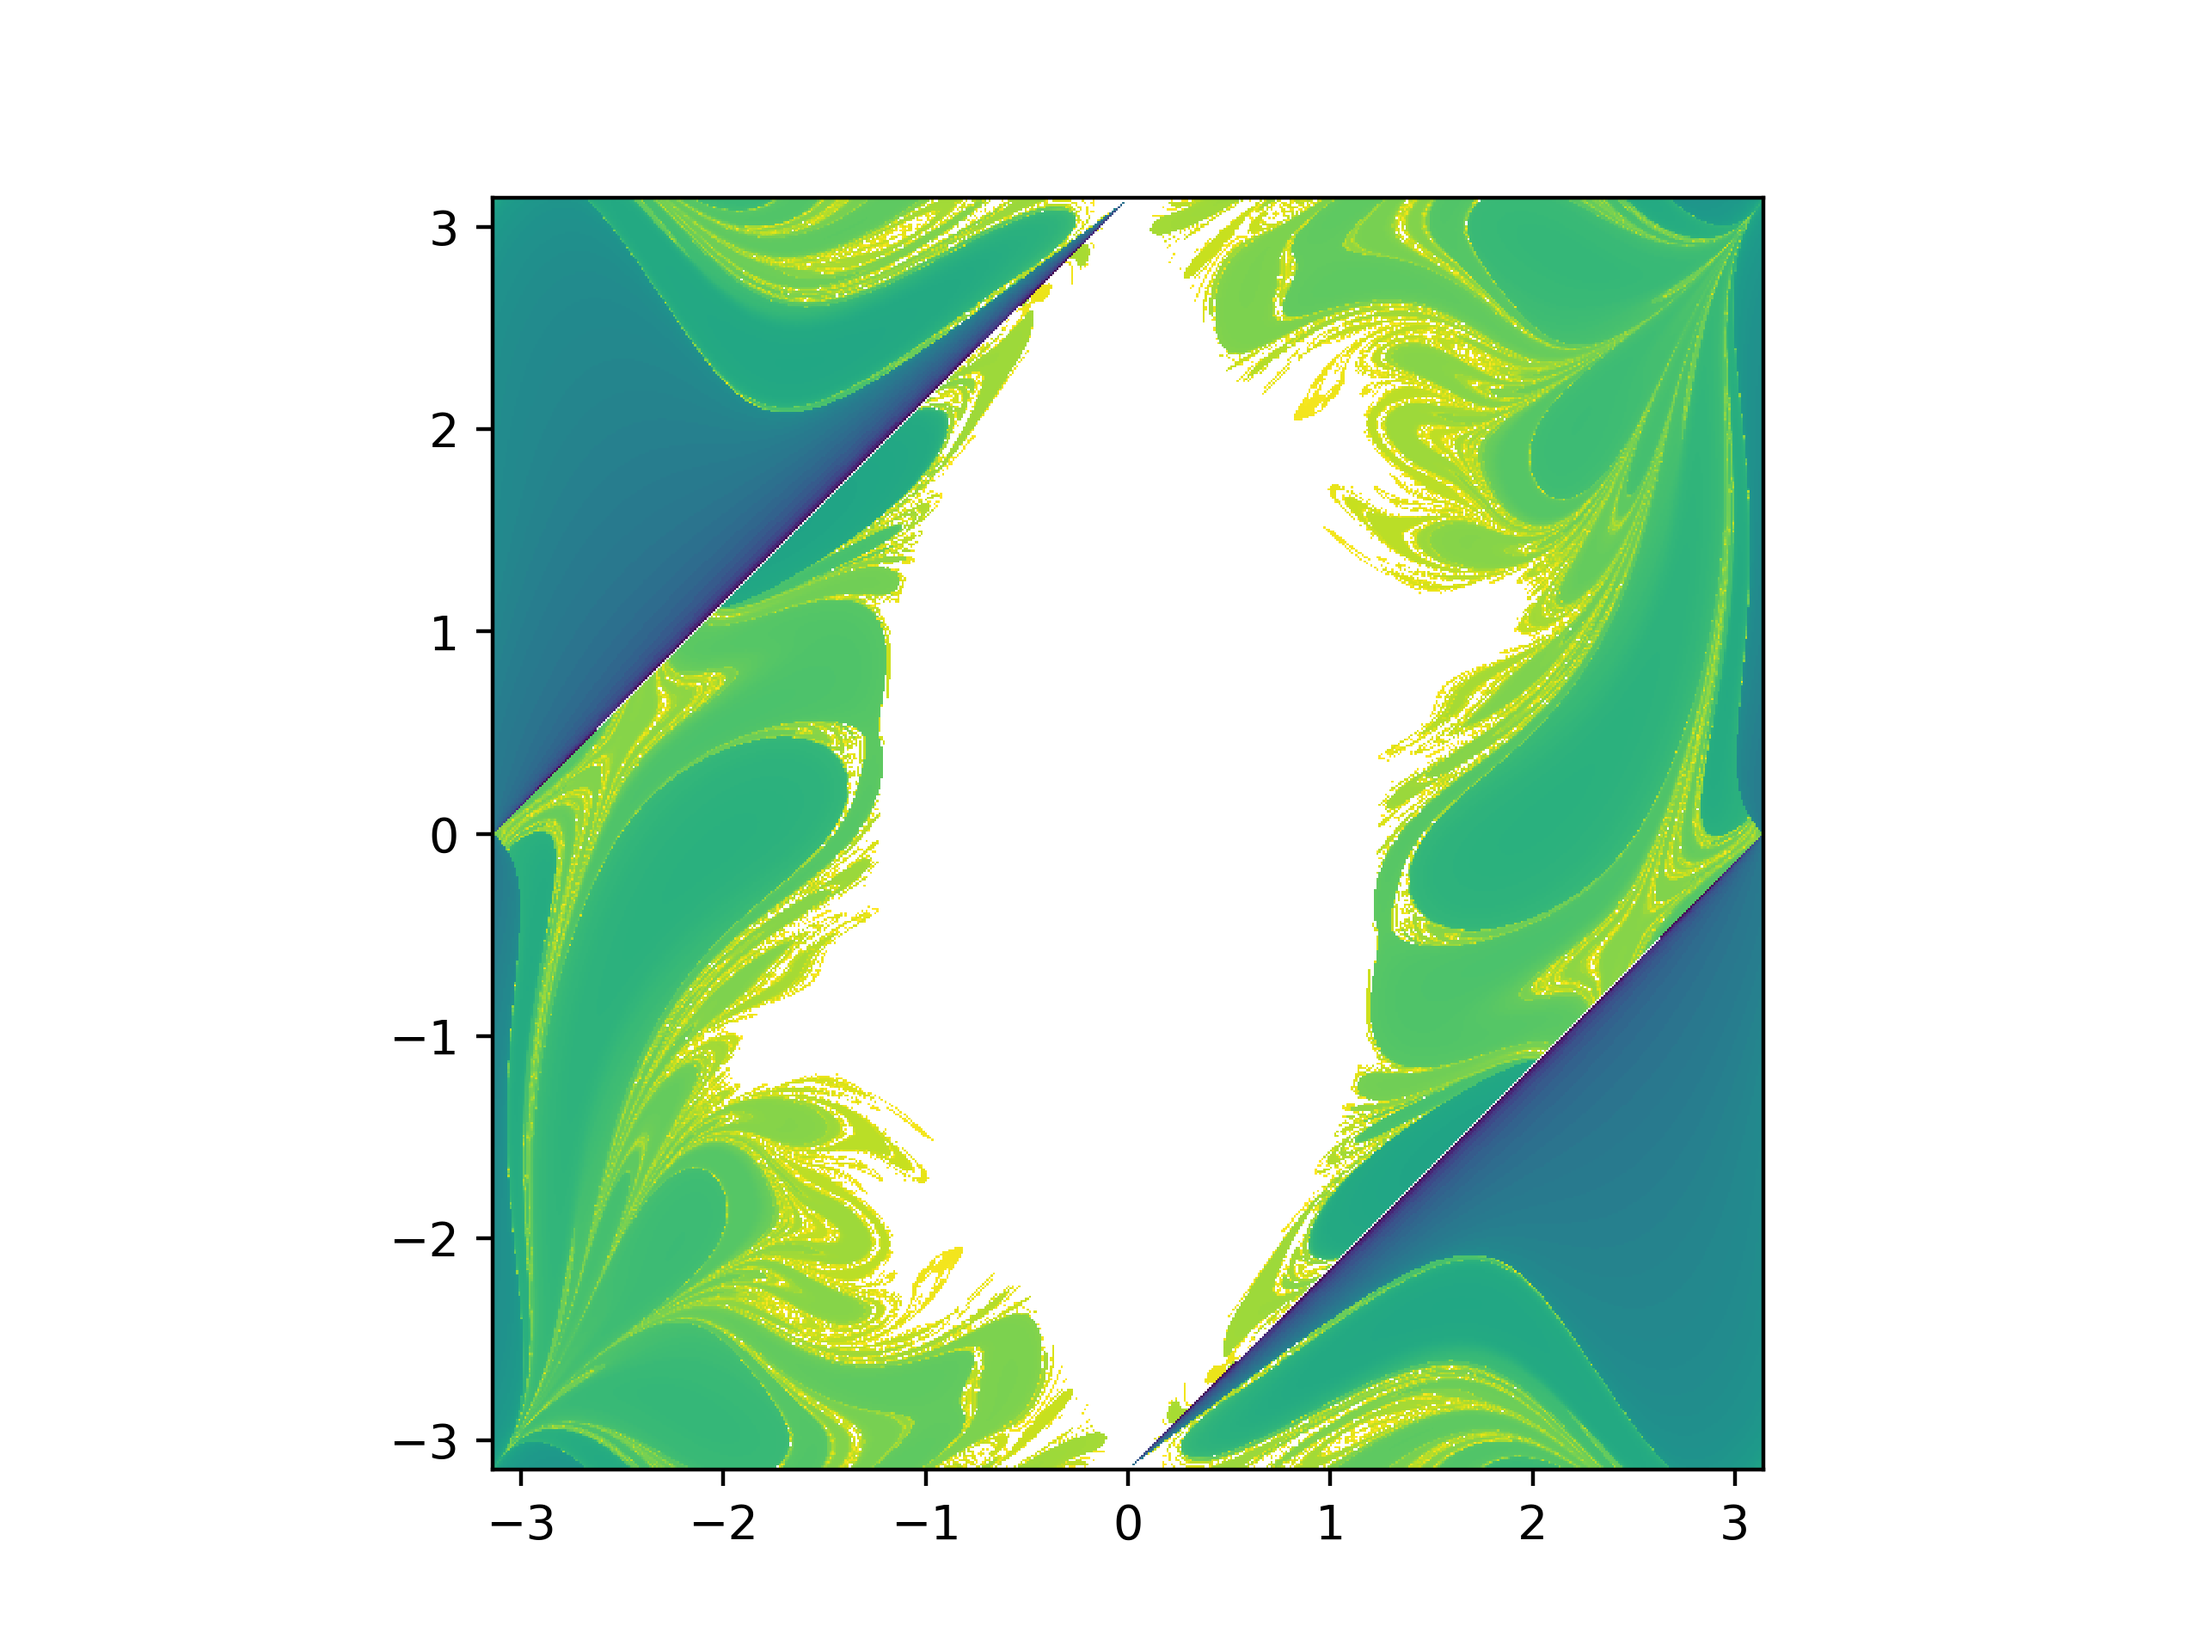
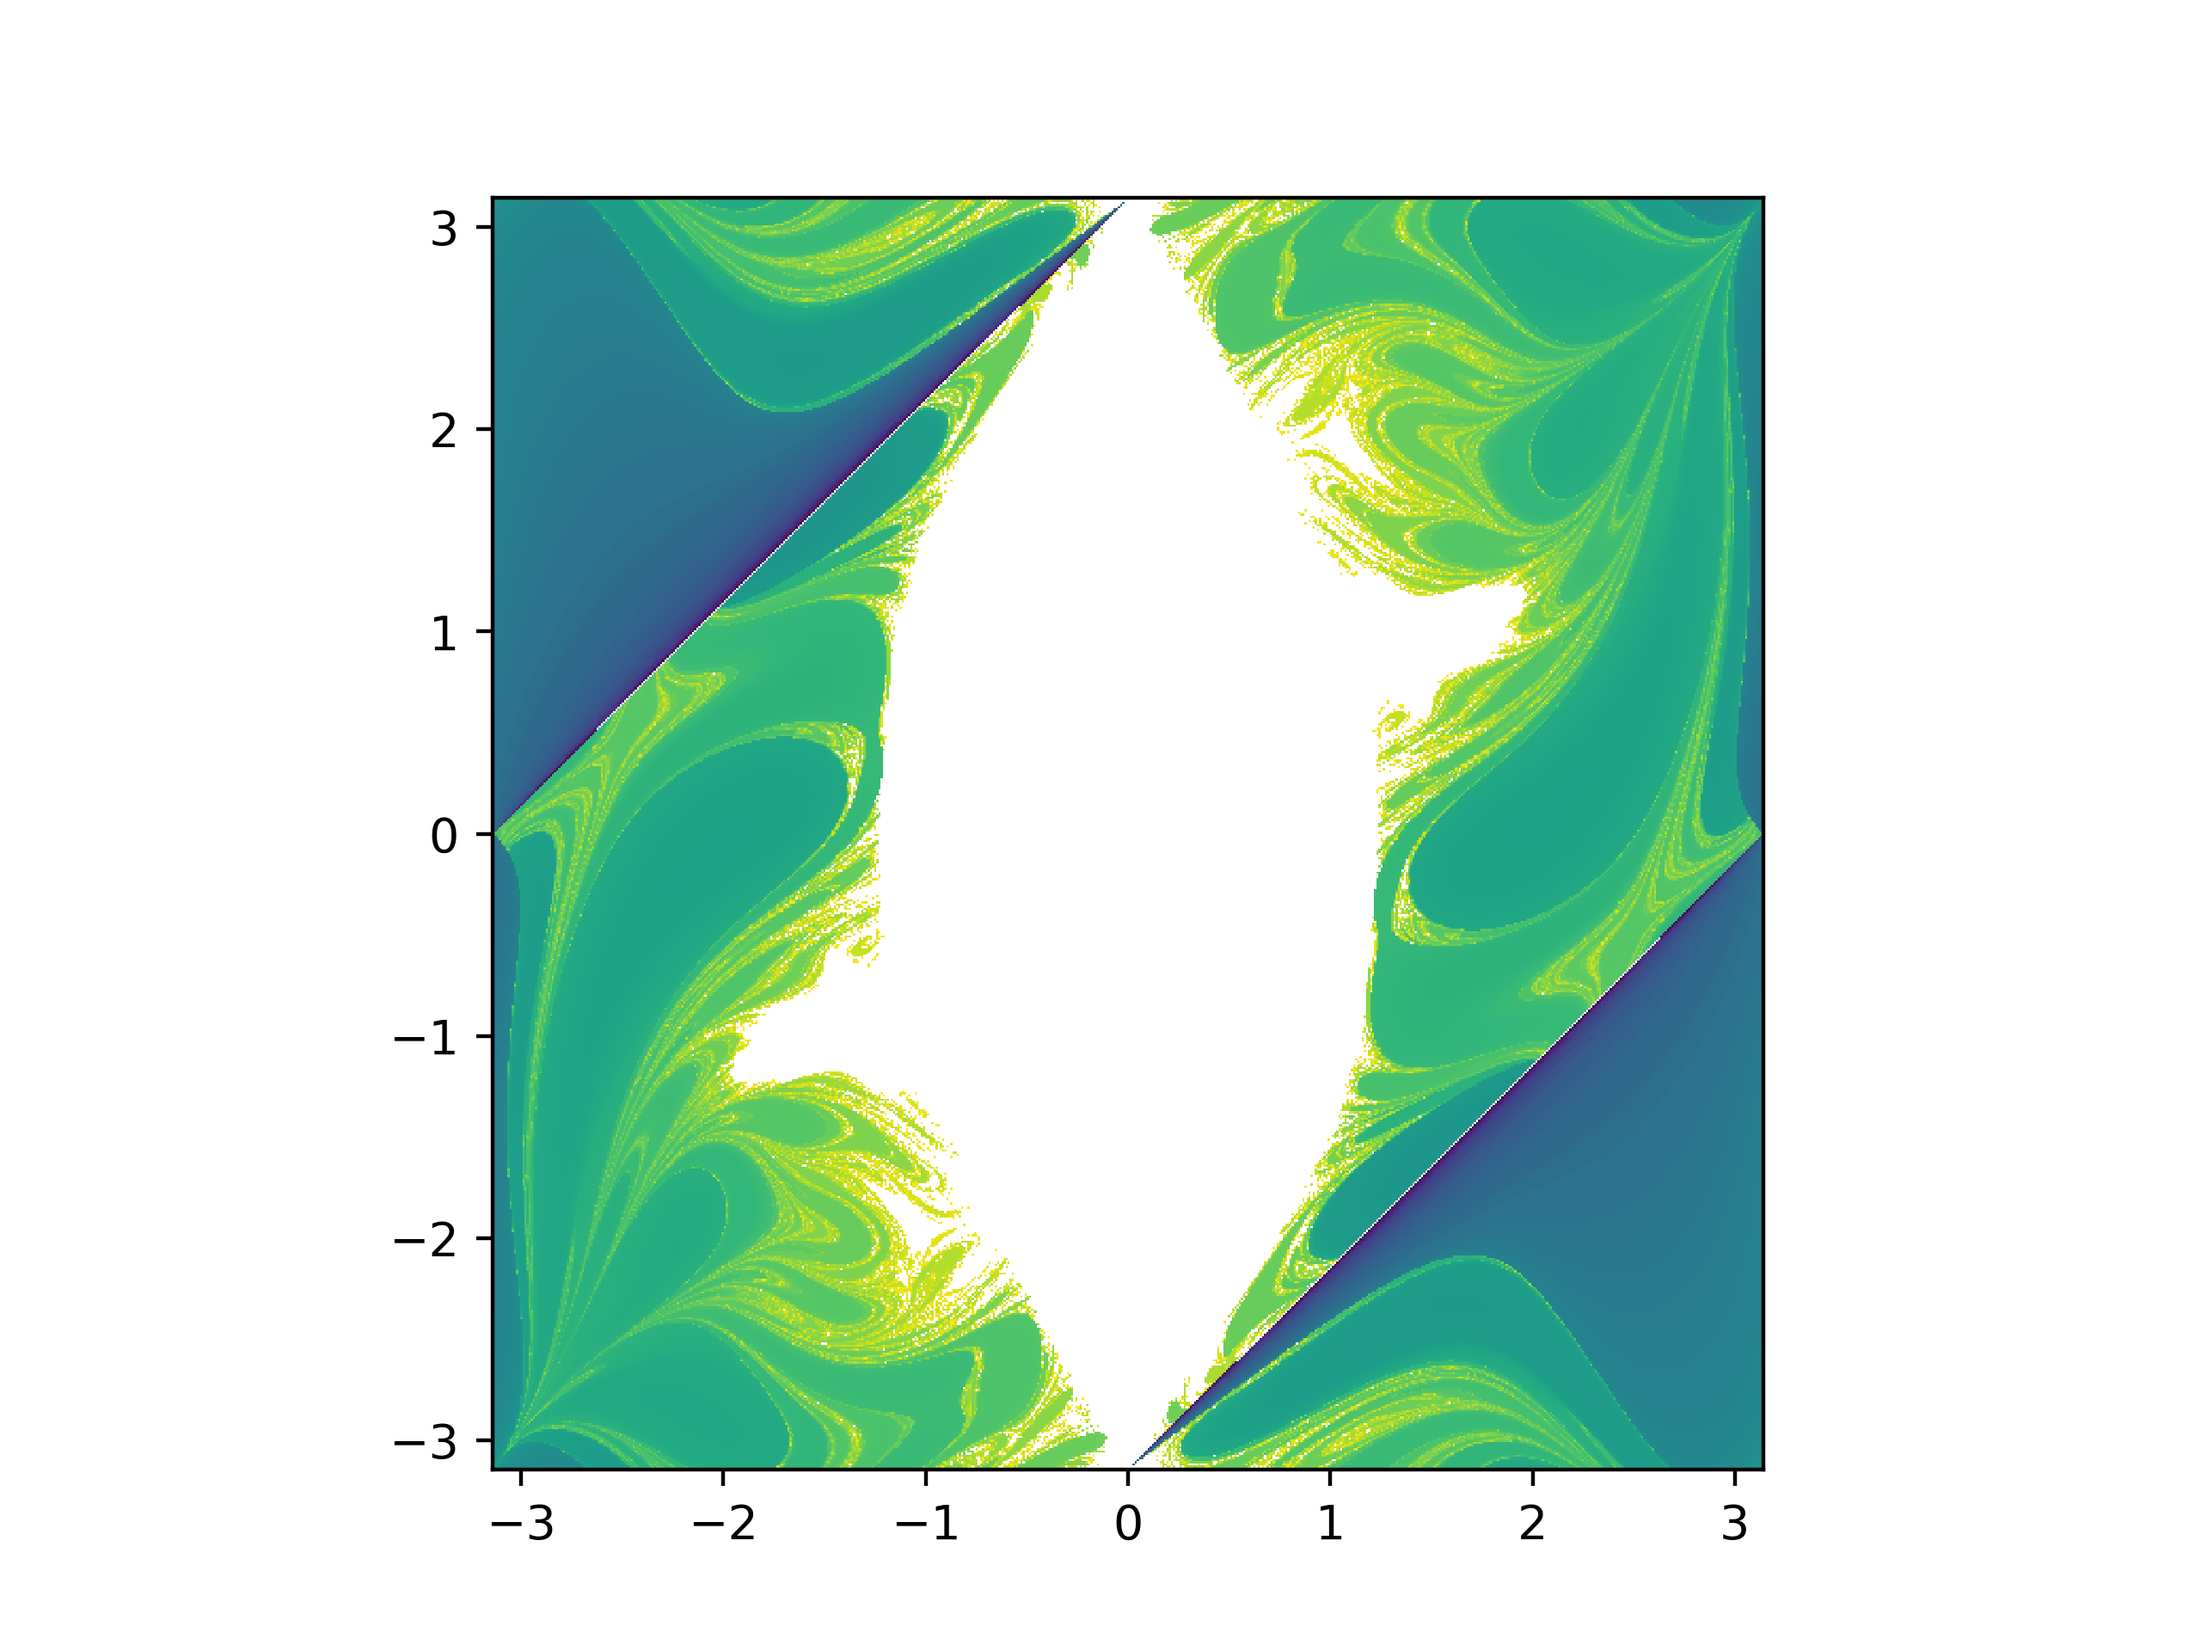
.

Changed region(s): [[0.2188, 0.0938, 0.8125, 0.9062], [0.2812, 0.875, 0.3125, 0.9062]]

diff --git a/DoublePendulum.py b/DoublePendulum.py
@@ -149,7 +149,7 @@ def plot_zero_crossing(K = 600):
 
     initial_states = np.stack((theta1_, theta2_, np.zeros_like(theta1_), np.zeros_like(theta2_)), axis=2)
 
-    state_array = RK4(initial_states, 0.025, m, l, g, 500)
+    state_array = RK4(initial_states, 0.025, m, l, g, 1000)
 
     min_crossing_time = []
 
